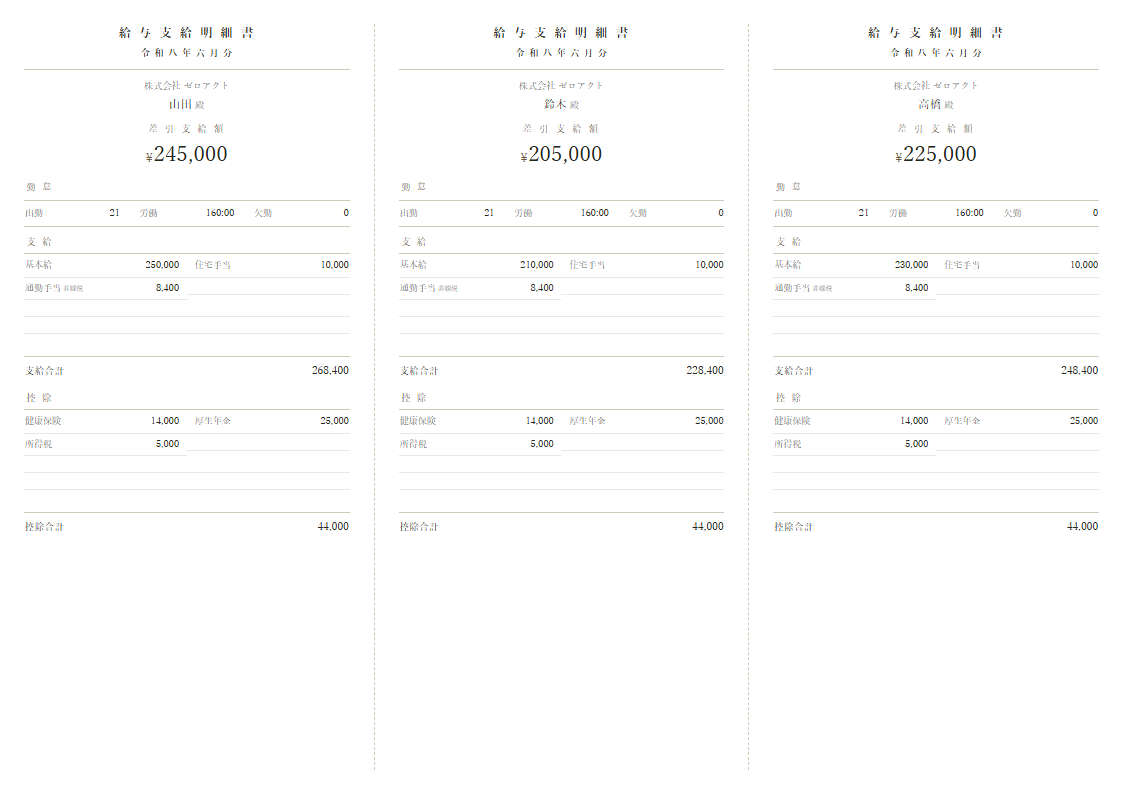
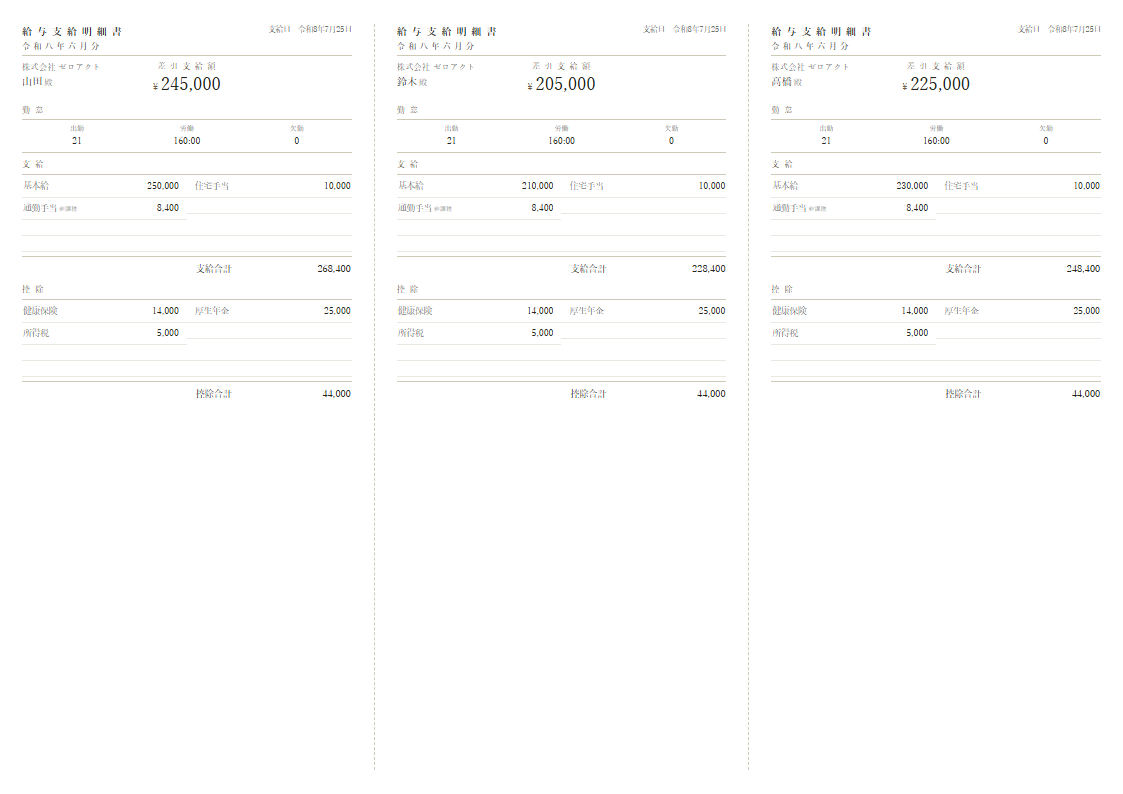
横ストリップ確定: 2カラム(3人)追加・1カラム改名・勤怠の行間線を全幅統一
- 横ストリップを1人/2人版と同じ並び・形に(表題左/支給日右・会社名+氏名左・差引¥中央)。旧の全中央ヘッダー廃止・支給日表示・労働の折返し解消
- cols3=2カラム(3人)新規(各人 支給|控除を横並び・単列・ラベル左合計)。stripsは1カラム(3人)に(支給↓控除・緑線合計)
- レイアウト名/並び: 2カラム(1/2/3人)→1カラム(1/2/3人)。縦並び→1カラム改名
- 勤怠を全テンプレ共通kinBuildに(行ごと全幅.krow+中央.kg)。行間の薄線を全幅にして支給/控除・勤怠上下線と左右一致。固定56pxに統一(旧48/62px廃止)
- 横ストリップの最低行数を増やし空行罫線で充填(cols3:20/strips:16)。合計直前の線消し(二重線防止)も適用
- 実測: 行数MAX cols3各26/strips各24・勤怠5個/行(11個で3行・最大40個まで収まる)

Claude-Session: https://claude.ai/code/session_01Ws4mcWfd2JdArk5oSQxhFc

diff --git a/js/render.js b/js/render.js
@@ -32,7 +32,7 @@
     '.h-lab{font-size:11px;letter-spacing:.40em;color:var(--accent);margin-top:10px;}.h-val{font-size:36px;margin-top:5px;line-height:1.05;font-variant-numeric:tabular-nums;}.h-val .yen{font-size:18px;color:var(--accent);margin-right:2px;}' +
     '.nm{text-align:center;margin-top:7px;font-size:14px;letter-spacing:.06em;}.nm .dono{font-size:10px;color:var(--ink3);margin-left:.3em;}.rule{height:.7px;background:var(--hair2);margin:8px 0;}' +
     '.net{text-align:center;font-size:11px;color:var(--accent);letter-spacing:.2em;}.net b{font-size:21px;color:var(--ink);font-weight:500;margin-left:8px;font-variant-numeric:tabular-nums;}.net b .y{font-size:12px;color:var(--accent);margin-right:1px;}' +
-    '.kin{display:grid;justify-content:center;column-gap:0;row-gap:8px;border-top:1px solid var(--accent-soft);border-bottom:1px solid var(--accent-soft);margin:10px 0 9px;padding:7px 0;}.kin .k{text-align:center;padding:0 6px;}.kin .k .kl{font-size:9px;color:var(--ink2);}.kin .k .kv{font-size:12px;margin-top:3px;font-variant-numeric:tabular-nums;}.kin .k.kb{border-bottom:.7px solid var(--hair-lt);padding-bottom:6px;}' +
+    '.kin{display:flex;flex-direction:column;border-top:1px solid var(--accent-soft);border-bottom:1px solid var(--accent-soft);margin:10px 0 9px;padding:7px 0;}.kin .kg{display:grid;justify-content:center;column-gap:0;}.kin .k{text-align:center;padding:0 6px;}.kin .kl{font-size:9px;color:var(--ink2);}.kin .kv{font-size:12px;margin-top:3px;font-variant-numeric:tabular-nums;}.kin .krow.kb{border-bottom:.7px solid var(--hair-lt);padding-bottom:6px;}.kin .krow.kb + .krow{padding-top:6px;}' +
     '.sec-title,.st{font-size:12px;letter-spacing:.40em;color:var(--accent);padding-left:.40em;margin-bottom:2px;}' +
     '.pd{display:flex;gap:36px;align-items:stretch;}.p1{padding-top:72px;}.pd .col{flex:1;display:flex;flex-direction:column;}.pd .st{padding-bottom:8px;border-bottom:.7px solid var(--hair2);margin-bottom:3px;}' +
     '.p2{padding:24px;}.p2 .unit:first-child{border-bottom:1px dashed #d3d3d3;padding-bottom:24px;margin-bottom:0;}.p2 .unit:last-child{padding-top:24px;}' +
@@ -60,7 +60,9 @@
     return '<div class="'+cls+' sum"><span class="'+lc+'">'+label+'</span><span class="'+vc+'">'+fmt(value)+'</span></div>'; }
   // 勤怠の列数=1行最大max(縦/横並び6・横ストリップ3)。フル行は中央(ブロック中央寄せ)・端数行は左揃え(列が揃う)
   function kinCols(n, max){ return Math.max(1, Math.min(n||1, max)); }
-  function kinHTML(kintai){ var c=kinCols(kintai.length,12),last=(Math.ceil(kintai.length/c)-1)*c; return '<div class="kin" style="grid-template-columns:repeat('+c+',56px)">'+kintai.map(function(k,i){ return '<div class="k'+(i<last?' kb':'')+'"><div class="kl">'+esc(k.label)+'</div><div class="kv">'+esc(k.value)+'</div></div>'; }).join('')+'</div>'; }
+  // 勤怠=行ごとに全幅ラッパー(.krow)+中央グリッド(.kg)。行間の薄線は.krow.kbの全幅border=他の線と左右一致(全テンプレ共通)
+  function kinBuild(kintai, c, w){ var rows=[]; for(var i=0;i<kintai.length;i+=c) rows.push(kintai.slice(i,i+c)); return '<div class="kin">'+rows.map(function(row,ri){ var cells=row.map(function(k){ return '<div class="k"><div class="kl">'+esc(k.label)+'</div><div class="kv">'+esc(k.value)+'</div></div>'; }).join(''); return '<div class="krow'+(ri<rows.length-1?' kb':'')+'"><div class="kg" style="grid-template-columns:repeat('+c+','+w+'px)">'+cells+'</div></div>'; }).join('')+'</div>'; }
+  function kinHTML(kintai){ return kinBuild(kintai, kinCols(kintai.length,12), 56); }
   function metaHTML(p){ return '<div class="meta">支給日　'+esc(p.payDate||'')+'<br>'+esc(p.company||'')+'</div>'; }
   // 上部=会社名/氏名(左)と差引支給額/¥(中央)の2カラム(全テンプレ共通デフォルト)
   function heroHTML(p){ return '<div class="hero hero2"><div class="hg-l"><div class="h-co">'+esc(p.company||'')+'</div><div class="h-nm">'+esc(p.name||'')+'<span class="dono">殿</span></div></div><div class="hg-r"><div class="h-lab">差 引 支 給 額</div><div class="h-val">'+YEN+fmt(p.net)+'</div></div></div>'; }
@@ -107,7 +109,7 @@
     '.h-co{font-size:11px;color:var(--ink2);margin-bottom:5px;letter-spacing:.12em;}.h-nm{font-size:14px;letter-spacing:.1em;}.h-nm .dono{font-size:11.5px;color:var(--ink2);margin-left:.4em;}' +
     '.h-lab{font-size:11px;letter-spacing:.30em;color:var(--accent);}.h-val{display:inline-flex;align-items:baseline;gap:6px;font-size:36px;margin-top:3px;line-height:1.04;font-variant-numeric:tabular-nums;}.h-val .yen{font-size:18px;color:var(--accent);}' +
     '.sec-title{font-size:11px;letter-spacing:.40em;color:var(--accent);padding-left:.40em;margin-bottom:2px;}' +
-    '.kin{display:grid;justify-content:center;column-gap:0;row-gap:6px;border-top:1px solid var(--accent-soft);border-bottom:1px solid var(--accent-soft);margin:8px 0 9px;padding:6px 0;}.kin .k{text-align:center;padding:0 6px;}.kin .k .kl{font-size:9px;color:var(--ink2);}.kin .k .kv{font-size:11.5px;margin-top:3px;font-variant-numeric:tabular-nums;}.kin .k.kb{border-bottom:.7px solid var(--hair-lt);padding-bottom:6px;}' +
+    '.kin{display:flex;flex-direction:column;border-top:1px solid var(--accent-soft);border-bottom:1px solid var(--accent-soft);margin:8px 0 9px;padding:6px 0;}.kin .kg{display:grid;justify-content:center;column-gap:0;}.kin .k{text-align:center;padding:0 6px;}.kin .kl{font-size:9px;color:var(--ink2);}.kin .kv{font-size:11.5px;margin-top:3px;font-variant-numeric:tabular-nums;}.kin .krow.kb{border-bottom:.7px solid var(--hair-lt);padding-bottom:6px;}.kin .krow.kb + .krow{padding-top:6px;}' +
     '.pd{display:flex;flex-direction:column;gap:14px;}.pd .col{display:flex;flex-direction:column;}.pd .sec-title{padding-bottom:7px;border-bottom:.7px solid var(--hair2);margin-bottom:2px;}' +
     '.items2{display:grid;grid-template-columns:1fr 1fr;column-gap:0;}.items2 .ln:nth-child(odd){padding-right:23px;}.items2 .ln:nth-child(even){padding-left:23px;}' +
     '.ln{display:flex;justify-content:space-between;align-items:baseline;padding:5.5px 2px;border-bottom:.7px solid var(--hair-lt);}.ln .lab{font-size:12px;color:var(--ink2);}.ln .lab .hz{font-size:8.5px;color:var(--ink3);margin-left:4px;font-family:"Yu Gothic","Hiragino Sans",sans-serif;}.ln .amt{font-size:13px;font-variant-numeric:tabular-nums;}' +
@@ -116,7 +118,7 @@
     '@page{size:A4 portrait;margin:0;}@media print{body{background:#fff;}.sheet{box-shadow:none;}}';
 
   function lnHTML(items, minCells){ var h=items.map(function(it){ var hz=it.hikazei?'<span class="hz">非課税</span>':''; return '<div class="ln"><span class="lab">'+esc(it.label)+hz+'</span><span class="amt">'+fmt(it.value)+'</span></div>'; }).join(''); for(var n=items.length; (n%2===1)||(n<(minCells||0)); n++) h+='<div class="ln e"></div>'; return h; }
-  function kinHTMLv(kintai){ var c=kinCols(kintai.length,12),last=(Math.ceil(kintai.length/c)-1)*c; return '<div class="kin" style="grid-template-columns:repeat('+c+',56px)">'+kintai.map(function(k,i){ return '<div class="k'+(i<last?' kb':'')+'"><div class="kl">'+esc(k.label)+'</div><div class="kv">'+esc(k.value)+'</div></div>'; }).join('')+'</div>'; }
+  function kinHTMLv(kintai){ return kinBuild(kintai, kinCols(kintai.length,12), 56); }
 
   function vstackBody(p){
     return '<div class="sheet">' +
@@ -133,31 +135,44 @@
   // ============ ③ 横ストリップ strips (2-4人) ============
   var STRIPS_CSS = ROOT +
     '.page{width:1123px;height:794px;margin:0 auto;background:var(--paper);box-shadow:0 10px 36px rgba(0,0,0,.26);padding:24px 0;display:flex;}.page.one{justify-content:center;}' +
-    '.strip{flex:1;padding:0 24px;border-left:1px dashed var(--hair2);display:flex;flex-direction:column;}.strip:first-child{border-left:none;}.one .strip{flex:0 0 460px;}' +
-    '.s-title{font-size:11.5px;letter-spacing:.22em;text-align:center;font-weight:500;}.s-month{font-size:8.5px;letter-spacing:.14em;text-align:center;margin-top:4px;font-weight:500;}.s-rule{height:.8px;background:var(--accent-soft);margin:8px 0 5px;}' +
-    '.s-who{text-align:center;margin:5px 0 4px;}.s-co{font-size:8.5px;color:var(--ink2);letter-spacing:.08em;}.s-name{font-size:11px;margin-top:3px;letter-spacing:.06em;}.s-name .dono{font-size:9px;color:var(--ink3);margin-left:.3em;}' +
-    '.s-hl{font-size:8.5px;letter-spacing:.34em;color:var(--accent);text-align:center;margin-top:6px;}.s-val{text-align:center;font-size:21px;margin-top:2px;font-variant-numeric:tabular-nums;}.s-val .yen{font-size:12px;color:var(--accent);margin-right:1px;}' +
-    '.sl{font-size:8.5px;letter-spacing:.30em;color:var(--accent);padding-left:.30em;margin:9px 0 1px;padding-bottom:4px;border-bottom:.7px solid var(--hair2);}' +
-    '.r{display:flex;justify-content:space-between;align-items:baseline;padding:3.4px 1px;border-bottom:.6px solid var(--hair-lt);}.r .l{font-size:9px;color:var(--ink2);}.r .l .hz{font-size:6.5px;color:var(--ink3);margin-left:2px;font-family:"Yu Gothic","Hiragino Sans",sans-serif;}.r .v{font-size:9.5px;font-variant-numeric:tabular-nums;}' +
-    '.kintai{border-top:1px solid var(--accent-soft);border-bottom:1px solid var(--accent-soft);margin-top:5px;padding:2px 0;}.kintai .k3{display:grid;justify-content:center;column-gap:0;row-gap:3px;}.kintai .r{border-bottom:none;padding:3px 1px;}.kintai .k3 .r{padding:3px 9px;}.kintai .r.kb{border-bottom:.6px solid var(--hair-lt);padding-bottom:4px;}' +
-    '.items2{display:grid;grid-template-columns:1fr 1fr;column-gap:0;}.items2 .r:nth-child(odd){padding-right:8px;}.items2 .r:nth-child(even){padding-left:8px;}.items2 .r.e{height:17px;box-sizing:border-box;}.items2 .r:nth-last-child(-n+2){border-bottom:none;}' +
-    '.r.sum{border-bottom:none;border-top:1px solid var(--accent-soft);margin-top:5px;padding-top:6px;column-gap:14px;}.r.sum .l{color:var(--ink);letter-spacing:.1em;}.r.sum .v{font-size:10.5px;}' +
+    '.strip{flex:1;padding:0 22px;border-left:1px dashed var(--hair2);display:flex;flex-direction:column;}.strip:first-child{border-left:none;}.one .strip{flex:0 0 460px;}' +
+    // 表題=左 / 支給日=右(同じ行)+全幅細線 ※1人/2人版と同じ並び
+    '.tophd{display:flex;justify-content:space-between;align-items:flex-start;gap:8px;}.tophd .mh{text-align:left;}.mh-title{font-size:10px;letter-spacing:.08em;font-weight:500;}.mh-month{font-size:7.5px;letter-spacing:.1em;margin-top:1px;font-weight:500;color:var(--ink2);}.iss-date{font-size:7.5px;color:var(--ink2);text-align:right;line-height:1.5;}.mh-rule{height:.6px;background:var(--hair2);margin:3px 0 5px;}' +
+    // 会社名+氏名=左 / 差引支給額¥=中央
+    '.hero2{display:grid;grid-template-columns:1fr auto 1fr;align-items:start;gap:6px;}.hero2 .hg-l{text-align:left;}.hero2 .hg-r{text-align:center;}.h-co{font-size:8px;color:var(--ink2);letter-spacing:.06em;}.h-nm{font-size:10px;letter-spacing:.04em;}.h-nm .dono{font-size:7.5px;color:var(--ink3);margin-left:.2em;}.h-lab{font-size:7.5px;letter-spacing:.2em;color:var(--accent);}.h-val{display:inline-flex;align-items:baseline;gap:3px;font-size:17px;line-height:1.1;font-variant-numeric:tabular-nums;}.h-val .yen{font-size:9px;color:var(--accent);}' +
+    // 勤怠
+    '.sec-title{font-size:8px;letter-spacing:.2em;color:var(--accent);margin:6px 0 1px;}' +
+    '.kin{display:flex;flex-direction:column;border-top:1px solid var(--accent-soft);border-bottom:1px solid var(--accent-soft);margin:1px 0 5px;padding:3px 0;}.kin .kg{display:grid;justify-content:center;column-gap:0;}.kin .k{text-align:center;padding:0 4px;}.kin .kl{font-size:7px;color:var(--ink2);}.kin .kv{font-size:9px;margin-top:0;font-variant-numeric:tabular-nums;}.kin .krow.kb{border-bottom:.6px solid var(--hair-lt);padding-bottom:3px;}.kin .krow.kb + .krow{padding-top:3px;}' +
+    // 支給/控除(縦に積む=1カラム)・項目+空行罫線・薄線・緑線合計
+    '.pd{display:flex;flex-direction:column;gap:3px;}.pd .col{display:flex;flex-direction:column;}.pd.two{flex-direction:row;gap:14px;}.pd.two .col{flex:1;min-width:0;}.st{font-size:8px;letter-spacing:.2em;color:var(--accent);padding-bottom:3px;border-bottom:.7px solid var(--hair2);margin-bottom:1px;}' +
+    '.items1 .r:last-child{border-bottom:none;}.items1 .r.e{height:16px;box-sizing:border-box;}' +
+    '.r{display:flex;justify-content:space-between;align-items:baseline;padding:3px 1px;border-bottom:.6px solid var(--hair-lt);}.r .l{font-size:8.5px;color:var(--ink2);}.r .l .hz{font-size:6px;color:var(--ink3);margin-left:2px;font-family:"Yu Gothic","Hiragino Sans",sans-serif;}.r .v{font-size:9px;font-variant-numeric:tabular-nums;}' +
+    '.items2{display:grid;grid-template-columns:1fr 1fr;column-gap:0;}.items2 .r:nth-child(odd){padding-right:8px;}.items2 .r:nth-child(even){padding-left:8px;}.items2 .r.e{height:16px;box-sizing:border-box;}.items2 .r:nth-last-child(-n+2){border-bottom:none;}' +
+    '.r.sum{border-bottom:none;border-top:1px solid var(--accent-soft);margin-top:4px;padding-top:5px;column-gap:18px;}.r.sum .l{color:var(--ink);letter-spacing:.08em;}.r.sum .v{font-size:9.5px;}.r.sum .sgrp .l{letter-spacing:.06em;}' +
     '@page{size:A4 landscape;margin:0;}@media print{body{background:#fff;}.page{box-shadow:none;}}';
 
   function srowsHTML(items, minCells){ var h=items.map(function(it){ var hz=it.hikazei?'<span class="hz">非課税</span>':''; return '<div class="r"><span class="l">'+esc(it.label)+hz+'</span><span class="v">'+fmt(it.value)+'</span></div>'; }).join(''); for(var n=items.length; (n%2===1)||(n<(minCells||0)); n++) h+='<div class="r e"></div>'; return h; }
-  function skinHTML(kintai){ var c=kinCols(kintai.length,5),last=(Math.ceil(kintai.length/c)-1)*c; return kintai.map(function(k,i){ return '<div class="r'+(i<last?' kb':'')+'"><span class="l">'+esc(k.label)+'</span><span class="v">'+esc(k.value)+'</span></div>'; }).join(''); }
-  function strip(p){
-    return '<div class="strip">' +
-      '<div class="s-title">給 与 支 給 明 細 書</div><div class="s-month">'+esc(P.month||'令 和 八 年 六 月 分')+'</div><div class="s-rule"></div>' +
-      '<div class="s-who"><div class="s-co">'+esc(p.company||'')+'</div><div class="s-name">'+esc(p.name||'')+'<span class="dono">殿</span></div></div>' +
-      '<div class="s-hl">差 引 支 給 額</div><div class="s-val"><span class="yen">¥</span>'+fmt(p.net)+'</div>' +
-      '<div class="sl" style="border:none;padding-bottom:0;">勤 怠</div><div class="kintai"><div class="k3" style="grid-template-columns:repeat('+kinCols(p.kintai.length,5)+',62px)">'+skinHTML(p.kintai)+'</div></div>' +
-      '<div class="sl">支 給</div><div class="items2">'+srowsHTML(p.shikyu,10)+'</div>'+sumLine('r','支給合計',p.shikyuTotal!=null?p.shikyuTotal:sum(p.shikyu))+'' +
-      '<div class="sl">控 除</div><div class="items2">'+srowsHTML(p.kojo,10)+'</div>'+sumLine('r','控除合計',p.kojoTotal!=null?p.kojoTotal:sum(p.kojo))+'' +
+  // 横ストリップの勤怠(1人/2人版と同じルール=固定幅56px・中央寄せ・最大5列/行=内幅330÷56・2行は全幅薄線)
+  function skin(kintai){ return kinBuild(kintai, kinCols(kintai.length,5), 56); }
+  // 横ストリップ用の単列項目(2カラム=支給|控除を横並びにする時・幅が狭いので各セクション1列)
+  function srows1(items, minCells){ var h=items.map(function(it){ var hz=it.hikazei?'<span class="hz">非課税</span>':''; return '<div class="r"><span class="l">'+esc(it.label)+hz+'</span><span class="v">'+fmt(it.value)+'</span></div>'; }).join(''); for(var n=items.length; n<(minCells||0); n++) h+='<div class="r e"></div>'; return '<div class="items1">'+h+'</div>'; }
+  // 1人/2人版と同じ並び・形(表題左/支給日右・会社名+氏名左・差引¥中央)。two=true:2カラム(支給|控除 横並び・ラベル左) / false:1カラム(支給↓控除・緑線)。幅だけ狭い
+  function strip(p, two){
+    var sh=p.shikyuTotal!=null?p.shikyuTotal:sum(p.shikyu), ko=p.kojoTotal!=null?p.kojoTotal:sum(p.kojo);
+    var pd = two ?
+      '<div class="pd two">' +
+        '<div class="col"><div class="st">支 給</div>'+srows1(p.shikyu,20)+sumLine('r','支給合計',sh,false)+'</div>' +
+        '<div class="col"><div class="st">控 除</div>'+srows1(p.kojo,20)+sumLine('r','控除合計',ko,false)+'</div>' +
+      '</div>'
+      :
+      '<div class="pd">' +
+        '<div class="col"><div class="st">支 給</div><div class="items2">'+srowsHTML(p.shikyu,16)+'</div>'+sumLine('r','支給合計',sh,true)+'</div>' +
+        '<div class="col"><div class="st">控 除</div><div class="items2">'+srowsHTML(p.kojo,16)+'</div>'+sumLine('r','控除合計',ko,true)+'</div>' +
       '</div>';
+    return '<div class="strip">' + topHead(p) + heroHTML(p) + '<div class="sec-title">勤 怠</div>'+skin(p.kintai) + pd + '</div>';
   }
-  function stripsBody(people){ return '<div class="page'+(people.length===1?' one':'')+'">'+people.map(strip).join('')+'</div>'; }
-  function buildStrips(people, doc){ P=doc||{}; return wrap(STRIPS_CSS, stripsBody(people), 'landscape'); }
+  function stripsBody(people, two){ return '<div class="page'+(people.length===1?' one':'')+'">'+people.map(function(p){ return strip(p, two); }).join('')+'</div>'; }
+  function buildStrips(people, doc){ P=doc||{}; return wrap(STRIPS_CSS, stripsBody(people, false), 'landscape'); }
 
   function wrap(css, body, orientation){
     return '<!DOCTYPE html><html lang="ja"><head><meta charset="UTF-8"><style>'+css+'</style></head><body data-orientation="'+orientation+'">'+body+'</body></html>';
@@ -188,7 +203,8 @@
       var css, orient, per, mk;
       if(prefer==='vstack'){ css=VSTACK_CSS; orient='portrait'; per=1; mk=function(ch){ return vstackBody(ch[0]); }; }
       else if(prefer==='vstack2'){ css=COLS_CSS; orient='portrait'; per=2; mk=function(ch){ return vstack2Body(ch); }; }
-      else if(prefer==='strips'){ css=STRIPS_CSS; orient='landscape'; per=3; mk=function(ch){ return stripsBody(ch); }; }
+      else if(prefer==='strips'){ css=STRIPS_CSS; orient='landscape'; per=3; mk=function(ch){ return stripsBody(ch, false); }; } // 1カラム3人(支給↓控除)
+      else if(prefer==='cols3'){ css=STRIPS_CSS; orient='landscape'; per=3; mk=function(ch){ return stripsBody(ch, true); }; } // 2カラム3人(支給|控除)
       else if(prefer==='cols2'){ css=COLS_CSS; orient='portrait'; per=2; mk=function(ch){ return colsBody(ch); }; }
       else { prefer='cols'; css=COLS_CSS; orient='portrait'; per=1; mk=function(ch){ return colsBody(ch); }; } // 2カラム1人(hero)
       var pages=[]; for(var i=0;i<people.length;i+=per) pages.push(people.slice(i,i+per)); if(!pages.length) pages=[[{name:'',company:'',kintai:[],shikyu:[],kojo:[],net:0}]];

diff --git a/js/app.js b/js/app.js
@@ -462,9 +462,10 @@
   var TPL_OPTS=[
     ['cols','2カラム（1人）','tpl_cols','支給と控除を横に・大きく（A4たて）',0],
     ['cols2','2カラム（2人）','tpl_cols2','支給と控除を横に・1枚に2人（A4たて）',0],
+    ['cols3','2カラム（3人）','tpl_cols3','横向きに3人・支給と控除を横に（A4よこ）',1],
     ['vstack','1カラム（1人）','tpl_vstack','支給の下に控除・大きく（A4たて）',0],
     ['vstack2','1カラム（2人）','tpl_vstack2','支給の下に控除・1枚に2人（A4たて）',0],
-    ['strips','横ストリップ','tpl_strips','横向きに数人まとめて（A4よこ）',1]
+    ['strips','1カラム（3人）','tpl_strips','横向きに3人・支給の下に控除（A4よこ）',1]
   ];
   function renderDesign(){
     // 色(上)
